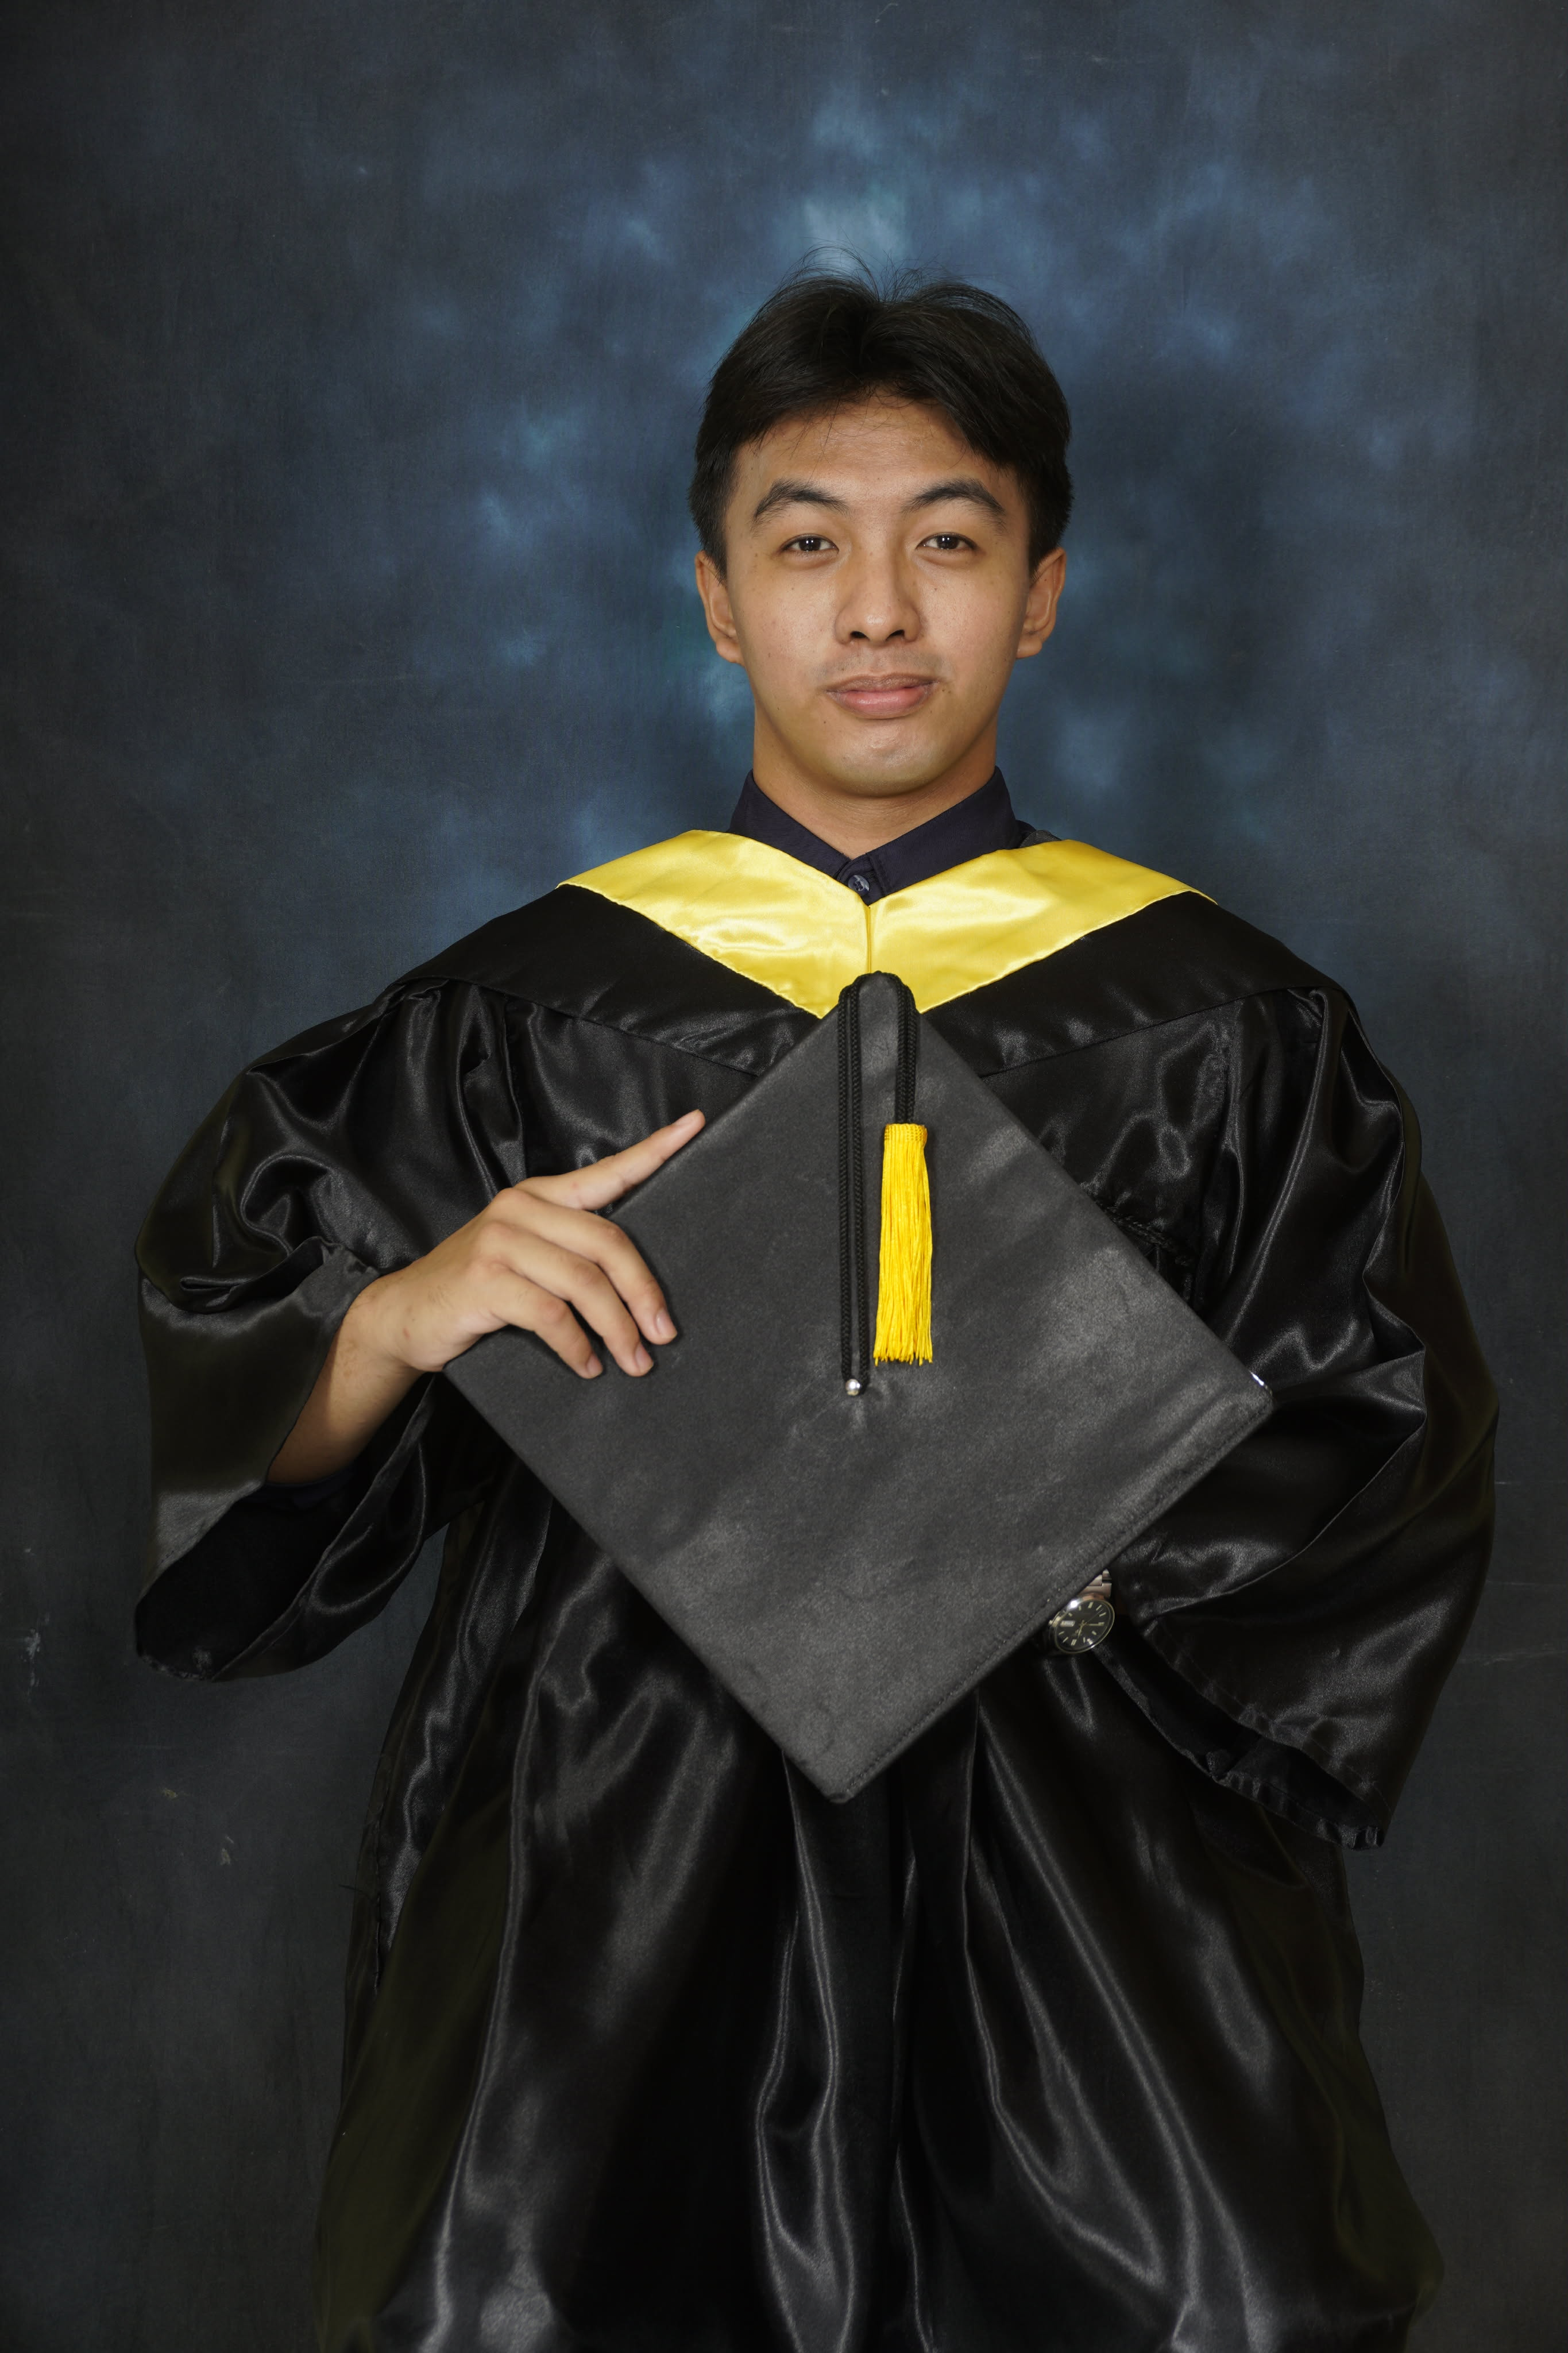
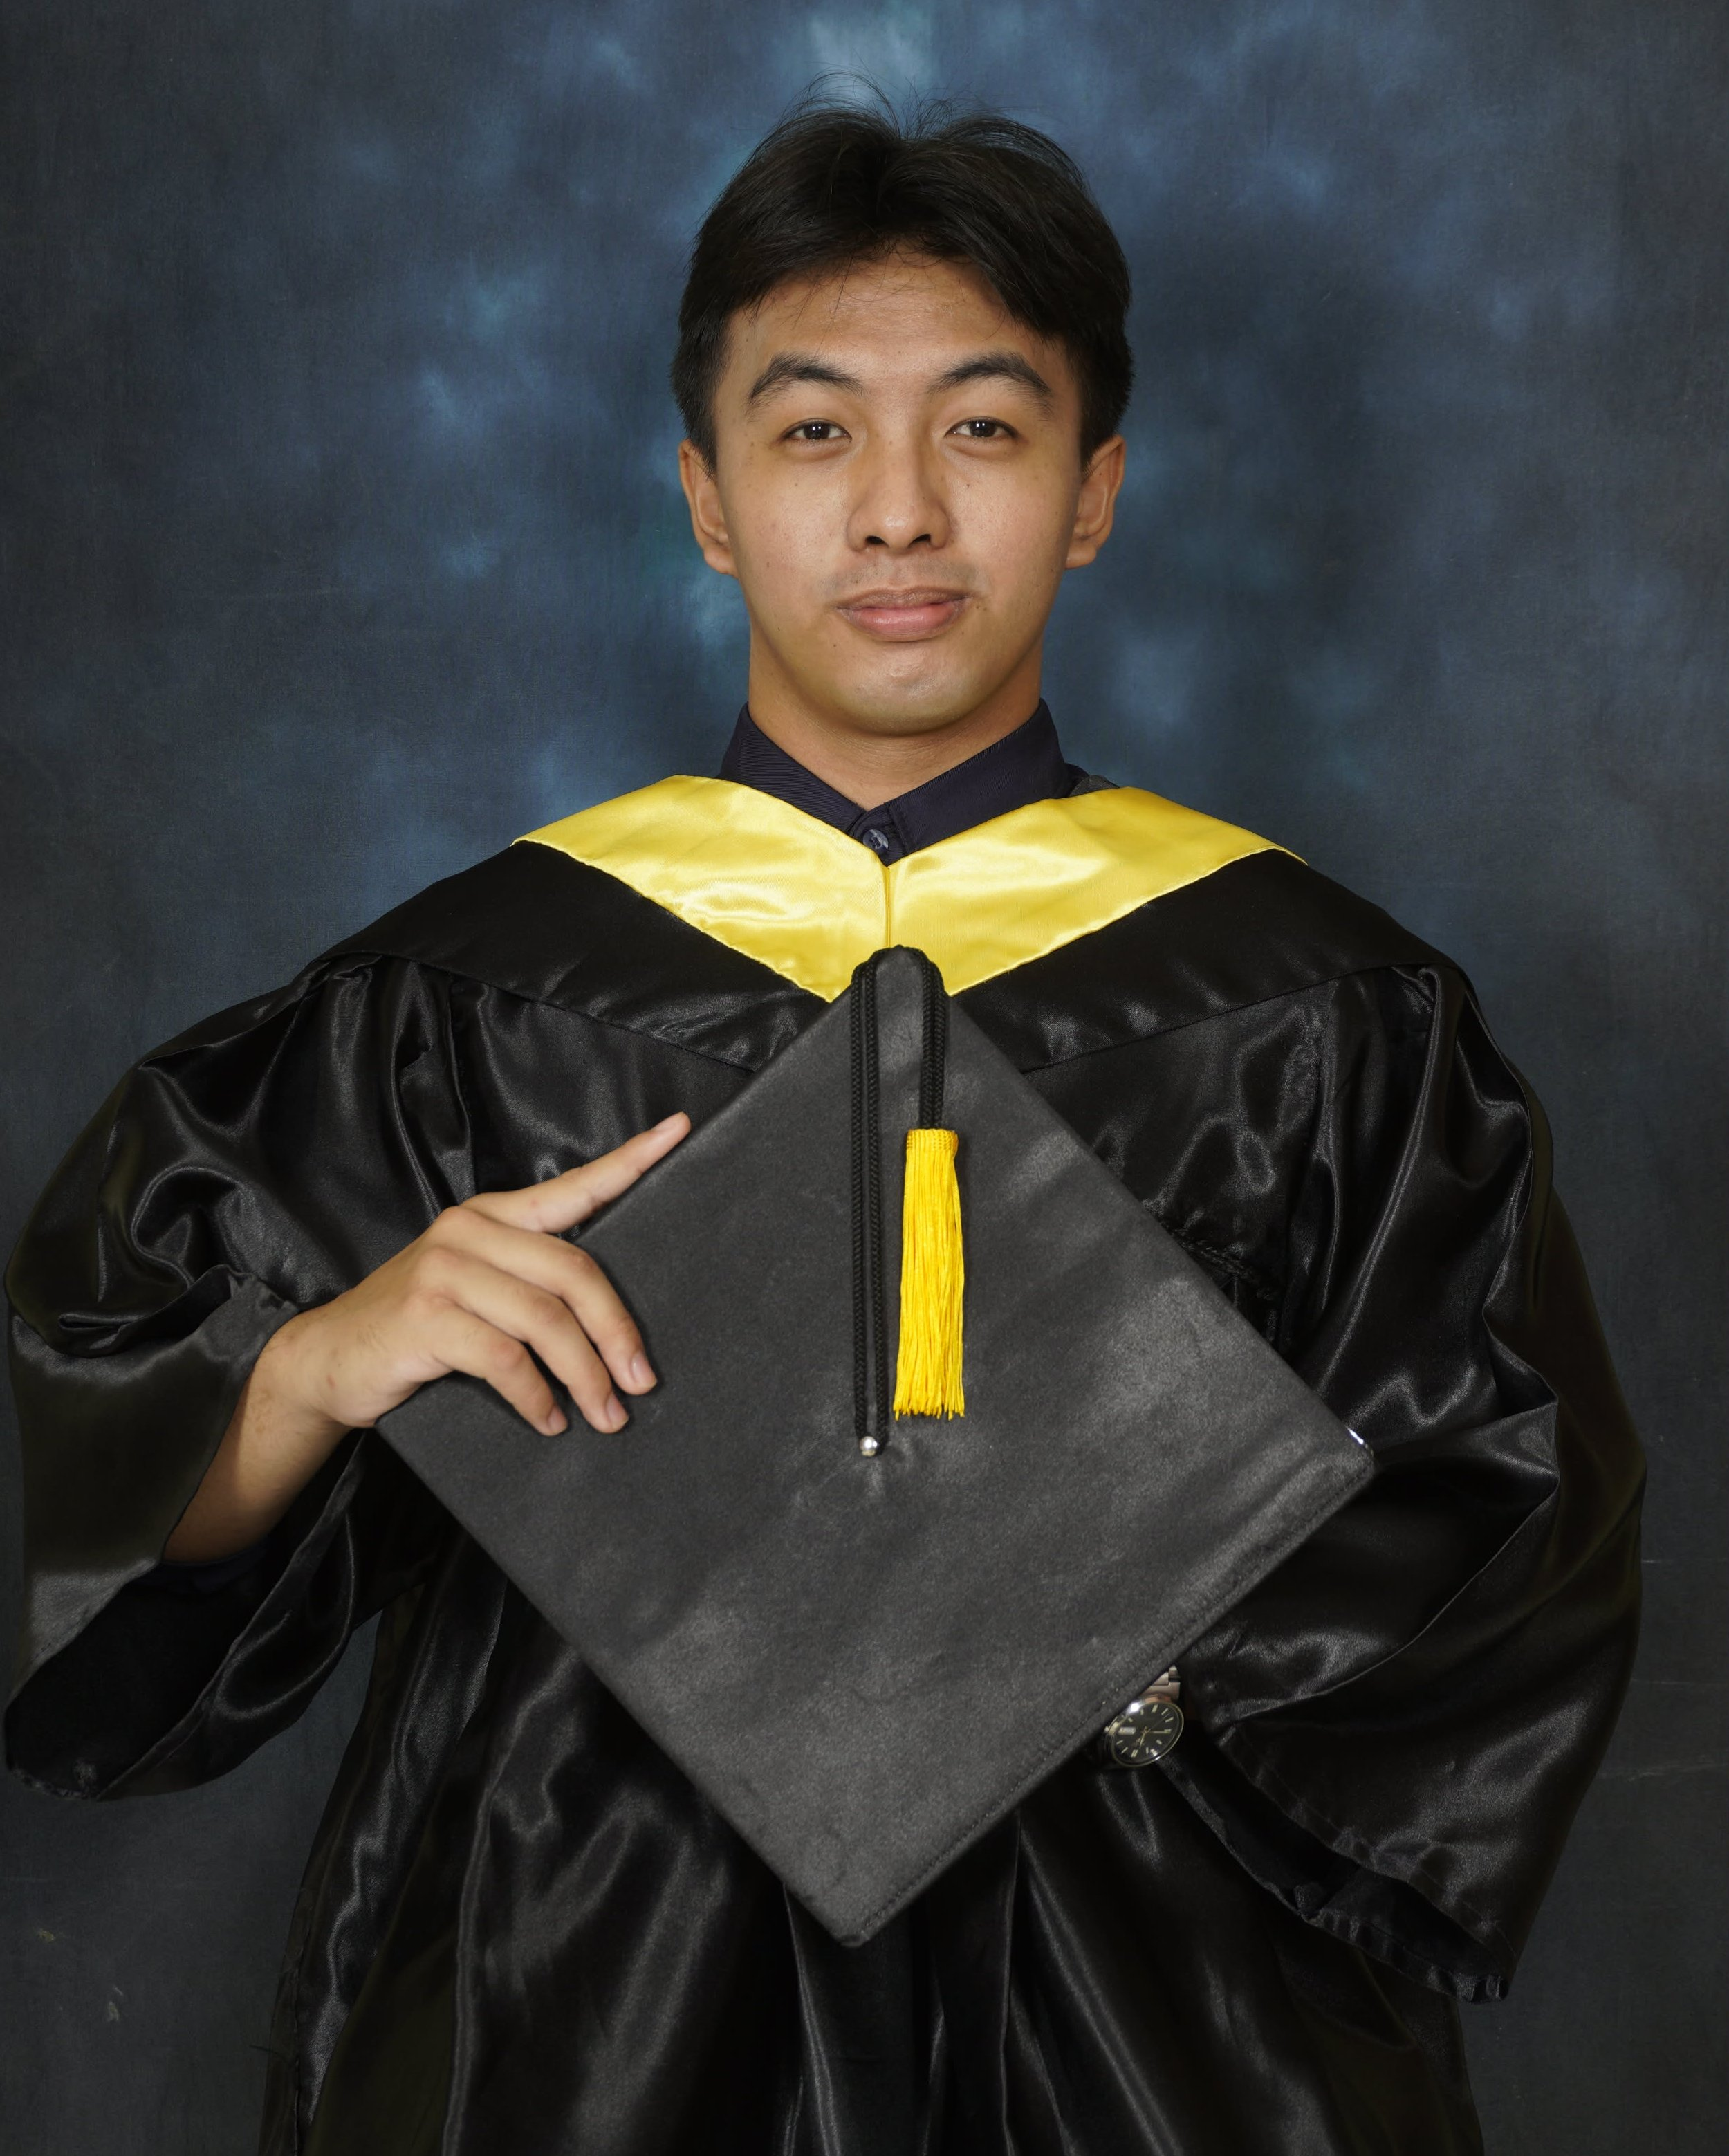
fix: update profile picture reference and improve about section

diff --git a/frontend/src/config/portfolio-data.ts b/frontend/src/config/portfolio-data.ts
@@ -36,13 +36,15 @@ export interface PortfolioData {
 export const portfolioData: PortfolioData = {
   fullName: 'Kenji "Brocks" I. Tabugadir',
   location: 'Cagayan, Philippines',
-  profilePicture: '/profile.webp',
-  tagline: 'IT Student | Linux & Server Enthusiast | Full-Stack Developer',
+  profilePicture: '/profile_v2.webp',
+  tagline: 'Linux & Server Enthusiast | Full-Stack Developer',
 
-  about: `I'm an IT student who loves building, breaking, and rebuilding systems until they actually make sense.
+  about: `I'm passionate about building, breaking, and rebuilding systems until they actually make sense.
+
 I work with Linux servers, self-hosted services, and full-stack web applications using React, JavaScript, TypeScript, PHP, and modern backend stacks.
 
 Most of my projects involve deploying real systems on my own server — Docker, firewalls, monitoring, and automation included.
+
 When I’m not coding, I’m probably tweaking Linux configs, learning how things work under the hood, or keeping up with new tech trends.`,
   
   email: '[email redacted]',

diff --git a/frontend/index.html b/frontend/index.html
@@ -2,7 +2,7 @@
 <html lang="en">
   <head>
     <meta charset="UTF-8" />
-    <link rel="icon" type="image/svg+xml" href="/profile.webp" />
+    <link rel="icon" type="image/svg+xml" href="/profile_v2.webp" />
     <meta name="viewport" content="width=device-width, initial-scale=1.0" />
     <title>Kenji "Brocks" Tabugadir</title>
   </head>